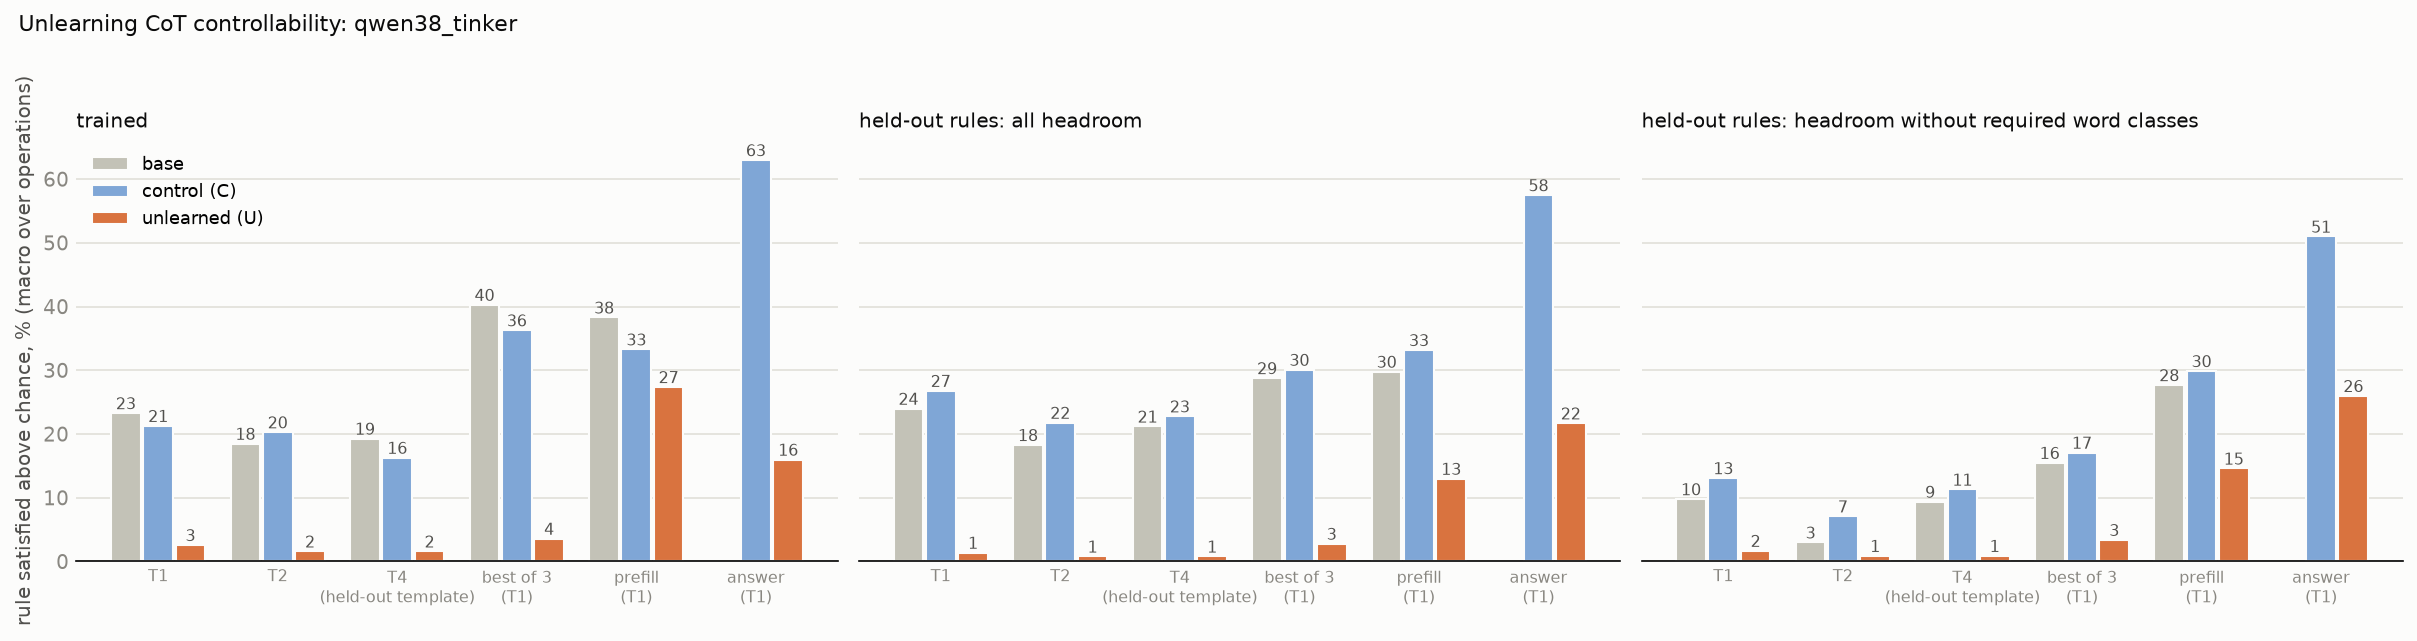
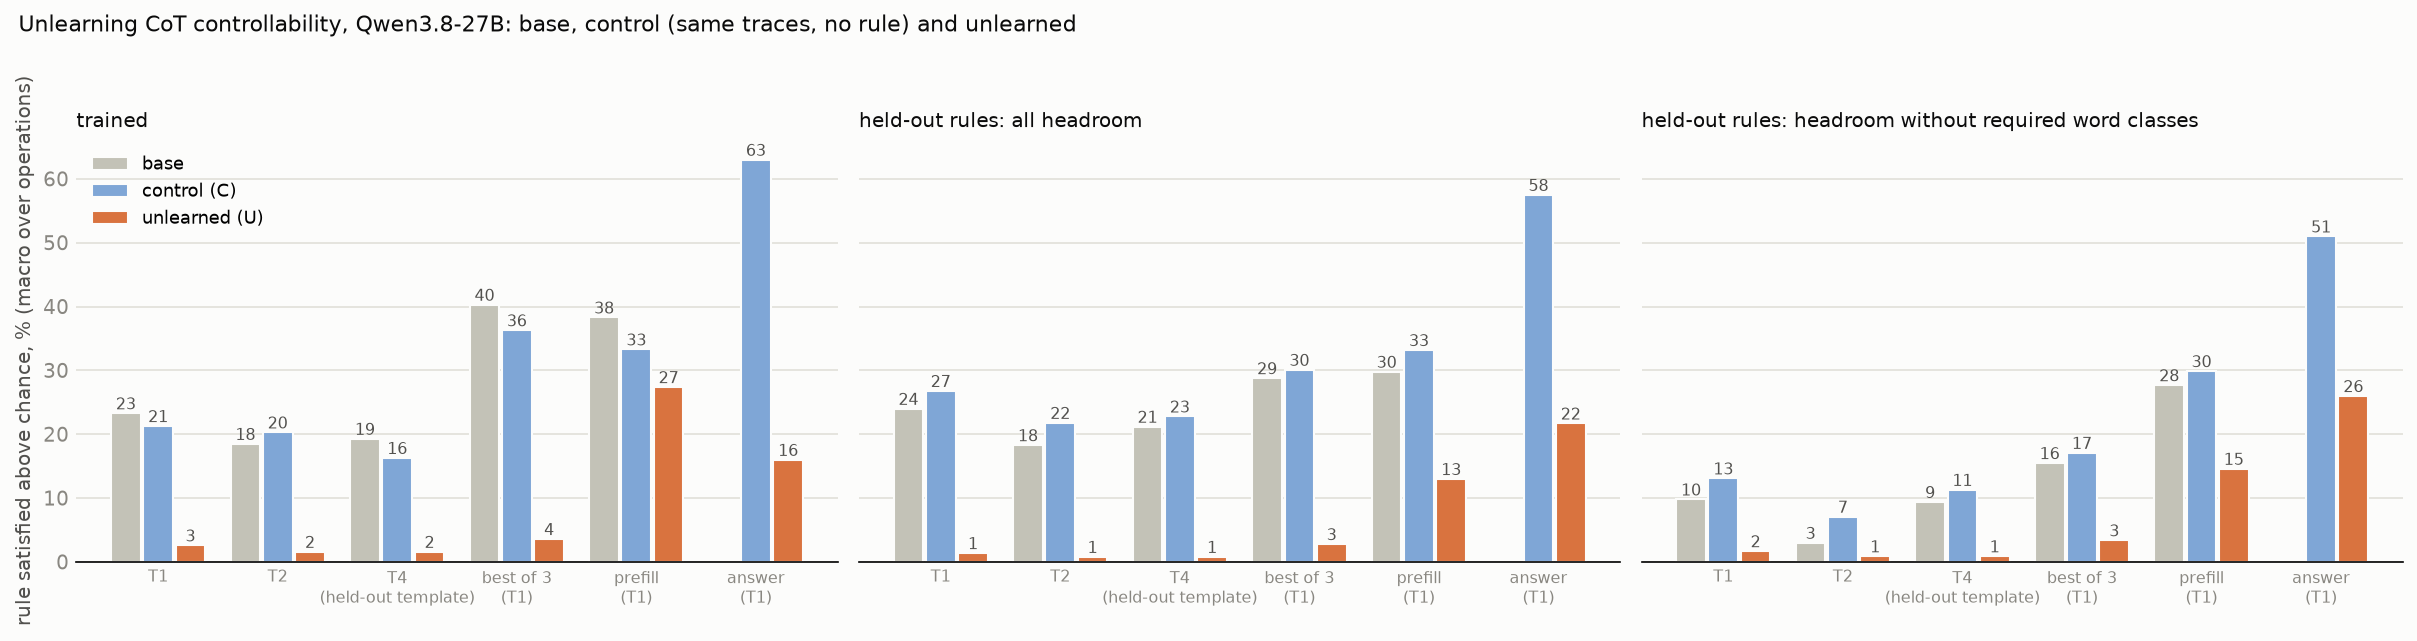
Unlearning on Qwen3.8-27B: findings write-up (removal on trained and held-out rules, best of 3 does not restore it, prefill does, answer-side control also lost) with figures

diff --git a/scripts/v2/unlearn_report.py b/scripts/v2/unlearn_report.py
@@ -115,9 +115,27 @@ def main():
         for s in ("top", "right", "left"): ax.spines[s].set_visible(False)
         ax.set_title(gname.replace("held out: ", "held-out rules: "), loc="left", fontsize=9.5, color=INK)
     axes[0].set_ylabel("rule satisfied above chance, % (macro over operations)", color=INK2); axes[0].legend(frameon=False, fontsize=8.5)
-    fig.suptitle(f"Unlearning CoT controllability: {key}", x=0.01, ha="left", fontsize=10.5, color=INK)
+    title = {"qwen38_tinker": "Qwen3.8-27B"}.get(key, key)
+    fig.suptitle(f"Unlearning CoT controllability, {title}: base, control (same traces, no rule) and unlearned", x=0.01, ha="left", fontsize=10.5, color=INK)
     fig.tight_layout(rect=(0, 0, 1, 0.93)); fig.savefig(REPO / f"figures/unlearn_v2_{key}_main.png", bbox_inches="tight"); plt.close(fig)
-    print("wrote", f"figures/unlearn_v2_{key}_main.png")
+    show = ["held out: near (sibling unlearned)", "held out: far", "unlearned half, score 0", "held out, score 0"]
+    fig, axes = plt.subplots(1, len(show), figsize=(4.6 * len(show), 4.0), sharey=True)
+    for ax, gname in zip(axes, show):
+        w = 0.27
+        for j, arm in enumerate(("base", "C", "U")):
+            ys = [res[arm]["cells"].get(f"{gname} | {c}") for c in cnames]
+            xs = [i + (j - 1) * w for i in range(len(cnames))]
+            ax.bar([x for x, y in zip(xs, ys) if y is not None], [y for y in ys if y is not None], width=w * 0.92, color=COL[arm], edgecolor=SURF, label=LAB[arm])
+            for x, y in zip(xs, ys):
+                if y is not None: ax.text(x, y + 0.6, f"{y:.0f}", ha="center", fontsize=7, color=INK2)
+        ax.set_xticks(range(len(cnames))); ax.set_xticklabels([c.replace(" (", "\n(") for c in cnames], fontsize=7.2, color=INK2)
+        ax.yaxis.grid(True, color=GRID); ax.set_axisbelow(True); ax.tick_params(length=0, colors=MUTED)
+        for sp in ("top", "right", "left"): ax.spines[sp].set_visible(False)
+        ax.set_title(gname.replace("held out: ", "held-out: "), loc="left", fontsize=9.5, color=INK)
+    axes[0].set_ylabel("rule satisfied above chance, %", color=INK2); axes[0].legend(frameon=False, fontsize=8)
+    fig.suptitle(f"{title}: held-out rules near and far, and the operations base never followed (score 0)", x=0.01, ha="left", fontsize=10.5, color=INK)
+    fig.tight_layout(rect=(0, 0, 1, 0.92)); fig.savefig(REPO / f"figures/unlearn_v2_{key}_groups.png", bbox_inches="tight"); plt.close(fig)
+    print("wrote", f"figures/unlearn_v2_{key}_main.png", f"figures/unlearn_v2_{key}_groups.png")
 
 
 if __name__ == "__main__":

diff --git a/UNLEARNING_V2_QWEN38_FINDINGS.md b/UNLEARNING_V2_QWEN38_FINDINGS.md
@@ -1,0 +1,149 @@
+# Unlearning CoT controllability on Qwen3.8-27B: findings (lean run)
+
+*2026-10-08. Design: `UNLEARNING_V2_PLAN.md` (lean $60 scope, one seed). Model chosen by screening
+(`SCREENING_V2_FINDINGS.md`). Everything ran on Tinker: `scripts/v2/unlearn_build.py` (data), `scripts/v2/train_tinker.py`
+(LoRA), `scripts/v2/unlearn_eval.py` (evaluation), `scripts/v2/unlearn_report.py` (tables and figures). Training curves:
+W&B `spar_controllability/cot-control-ft`, group `unlearn-v2-qwen38`.*
+
+## Headline
+
+**Training Qwen3.8-27B on its own reasoning paired with rules that reasoning ignores removes its CoT controllability
+almost completely: on the trained rules (about 20 % → 2–3 %), on held-out rules (24 % → 1 %), and in a template it never
+saw. The removal holds up under best of 3, but not under prefilling: started in the required format, the unlearned model continues
+it about as often as base follows the rule plainly. The removal is not specific to the reasoning: the unlearned model
+also stops applying the rules to its answer.**
+
+![Base, control and unlearned](figures/unlearn_v2_qwen38_tinker_main.png)
+
+## Setup
+
+- **Model:** Qwen3.8-27B, medium reasoning effort, temperature 1.0, top-p 0.95, top-k 20 (as in screening).
+- **Rule split:** the locked per-model matched-pair split of the 20 operations (`data/unlearn_v2_splits.json`).
+  - **Trained** (unlearned, base score above 0): required words, total word count, uniform case, sentence mood,
+    natural language (10 rules).
+  - **Held out with headroom:** required word classes, trace boundaries, character bans, lexical density, word bans,
+    number notation. **Near** (family sibling unlearned): required word classes, number notation. **Far**: the other four.
+  - **Score 0** (base never followed them): five in the unlearned half (not trained), four held out.
+- **Training data:** 899 of the model's own unconstrained traces (700 on the v2 training questions, 200 from
+  screening). Each is paired with one trained rule, in T1, T2 or T3, that the grader confirms the trace breaks; every
+  trace broke its rule, so all 899 were kept. Nothing is rewritten; the answer is the model's own.
+- **Arms:**
+  - **U (unlearned):** rule in the prompt, the trace ignores it.
+  - **C (control):** the same 899 traces under their original prompt, no rule.
+
+  Both use LoRA rank 32 on attention and MLP, learning rate 1e-4, batch 4, one epoch (225 steps), one seed. The loss
+  stays flat for both (U 0.39 → 0.36, C 0.34 → 0.35): they train on the model's own text.
+- **Evaluation:** 40 rules × 10 questions per rule (the v2 evaluation questions).
+  - **Plain prompting:** templates T1 and T2 (seen in training) and T4 (the rule in the developer message; never seen).
+  - **Best of 3**, on T1.
+  - **Prefill**, on T1: the reasoning is started with a compliant opening sentence written by gpt-4.1. Only the model's
+    own continuation is graded.
+  - **Answer:** on T1, the rule applied to the final answer instead.
+
+  Base's T1 and T2 scores and its best of 3 come from screening.
+- **Metric:** % of prompts satisfying the rule, minus that arm's chance rate (its own unconstrained traces; 100 per arm),
+  floored at 0, averaged over operations.
+
+## Results
+
+| % above chance | base | control (C) | unlearned (U) |
+|---|---:|---:|---:|
+| **trained rules:** T1 / T2 / T4 | 23 / 18 / 19 | 21 / 20 / 16 | **3 / 2 / 2** |
+| trained rules: best of 3 | 40 | 36 | **4** |
+| trained rules: prefill (continuation only) | 38 | 33 | **27** |
+| trained rules: applied to the answer | – | 63 | **16** |
+| **held-out rules:** T1 / T2 / T4 | 24 / 18 / 21 | 27 / 22 / 23 | **1 / 1 / 1** |
+| held-out, without "required word classes": T1 / T2 / T4 | 10 / 3 / 9 | 13 / 7 / 11 | **2 / 1 / 1** |
+| held-out: best of 3 | 29 | 30 | **3** |
+| held-out: prefill (continuation only) | 30 | 33 | **13** |
+| held-out: applied to the answer | – | 58 | **22** |
+
+| | base | control (C) | unlearned (U) |
+|---|---:|---:|---:|
+| answer accuracy | 90 % | 90 % | 95 % |
+| median reasoning, words | 210 | 208 | 136 |
+| reasoning restates the rule | 65 % | 58 % | 4 % |
+
+1. **Control is removed, and the removal spreads.**
+   - **Trained rules:** about 20 % → 2–3 % in every template, including T4, which U never saw.
+   - **Held-out rules:** 24 % → 1 %; without "required word classes", 10 % → 2 %.
+   - **Control arm:** C stays at base level throughout, so the drop comes from pairing traces with rules they ignore,
+     not from fine-tuning on the model's own reasoning.
+2. **Best of 3 does not bring it back.** Three samples get U to 3–4 %, against 29–40 % for base.
+3. **It does not survive prefill on the trained rules.**
+   - **Trained rules:** once its reasoning is started in the required format, U continues compliantly on 27 % of
+     prompts. That is above base under a plain prompt (23 %) and recovers more than C does (24 points against 12),
+     so it fails both parts of the pre-registered "survives" test.
+   - **Held-out rules:** prefill gets U to 13 %, below base plain (24 %) and below C's gain. It passes there.
+   - **Prefill is a strong push for any model.** Even rules base never follows reach 26–35 % with prefill (figure
+     below). It measures continuing a format that has been started as much as following an instruction.
+4. **The removal is not specific to the reasoning.** Asked to apply the same rules to its **answer**, U manages 16–22 %
+   against C's 58–63 %. U has learned to ignore formatting instructions in general. This follows from the training data:
+   each training answer was the model's own, which ignored the rule too.
+5. **Side effects:**
+   - **Reasoning:** U writes much shorter reasoning (136 against 210 words) and almost never restates the rule (4 %
+     against 65 %). It ignores the instruction rather than discussing it.
+   - **Accuracy:** rises slightly (95 % against 90 %).
+
+![Near and far held-out rules, and score-0 operations](figures/unlearn_v2_qwen38_tinker_groups.png)
+
+**Near and far.** Both held-out groups lose everything (near 48 → 0 %, far 12 → 2 %). "Near" here is mostly one
+operation, "required word classes" (the other, number notation, is near 0 for base), so the near/far comparison rests on
+few operations.
+
+**Operations base never followed** stay at 0–2 % for every arm under plain prompting and best of 3: training gave U no
+new control. Under prefill and on the answer, U is again below base and C.
+
+## Against the pre-registered "survives" test
+
+The plan's test for prompt-only access has two conditions:
+1. U under the strategy stays below base under the plain prompt (T1);
+2. U's gain from the strategy is less than half of C's gain.
+
+| | U elicited vs base plain | U gain vs C gain | verdict |
+|---|---|---|---|
+| trained rules, best of 3 | 4 < 23 ✓ | +1 vs +15 ✓ | **survives** |
+| trained rules, prefill | 27 > 23 ✗ | +24 vs +12 ✗ | **fails** |
+| held-out rules, best of 3 | 3 < 24 ✓ | +2 vs +3 ✗ (half of C's gain is 1.5) | **technically fails; within noise** |
+| held-out rules, prefill | 13 < 24 ✓ | +12 vs +6 ✗ | **fails condition 2** |
+| weight access (relearning) | – | – | not run |
+
+The second condition breaks down when C itself barely gains, as with best of 3 on held-out rules (+3 points). The
+plan should specify a minimum C gain before it applies. The clear results are:
+- best of 3 does not bring control back;
+- prefill does, fully on the trained rules and partly on held-out rules.
+
+## Caveats
+
+- **One seed, 10 questions per rule:** single-rule numbers are uncertain by about ±15 points; group averages are much
+  tighter. The near group has effectively one operation.
+- **Prefill openings** were written by gpt-4.1 per question and rule. The same opening is used for all three arms,
+  and only the continuation is graded.
+- **Chance rates** for the four judged rules come from screening for every arm (not re-measured).
+- **The relearning attack has not been run.** 64 compliant examples of held-out rules are ready
+  (`data/sft/unlearn_v2_qwen38_tinker_relearn64.jsonl`; base complied on 27 % of 295 prompts, mostly inclusion rules
+  and no commas). Tinker cannot resume training from the saved U checkpoint (only its sampling weights were saved), so
+  the attack needs U retrained with resumable checkpoints.
+
+## Cost
+
+About **$53** on Tinker so far, from token counts:
+
+| item | cost |
+|---|---:|
+| traces for the training data | $4 |
+| training U and C | ~$11 |
+| evaluation: U | $13 |
+| evaluation: C | $19 |
+| evaluation: base (T4 and prefill) | $5 |
+| samples for the relearning set | $3 |
+
+Plus a few dollars of gpt-4.1 (prefill openings, judge).
+
+## Next steps
+
+1. **Relearning attack** (about $11): retrain U with resumable checkpoints, fine-tune on the 64 compliant examples,
+   re-evaluate T1.
+2. **Specificity fix, U2** (about $20): the same pairs, but with each training answer rewritten to follow the rule
+   (gpt-4.1), so that only the reasoning ignores it. This tests whether the loss can be confined to the chain of thought.
+3. **Gemma-4-31B**, the other chosen model, when a local GPU is free (it is not on Tinker).
